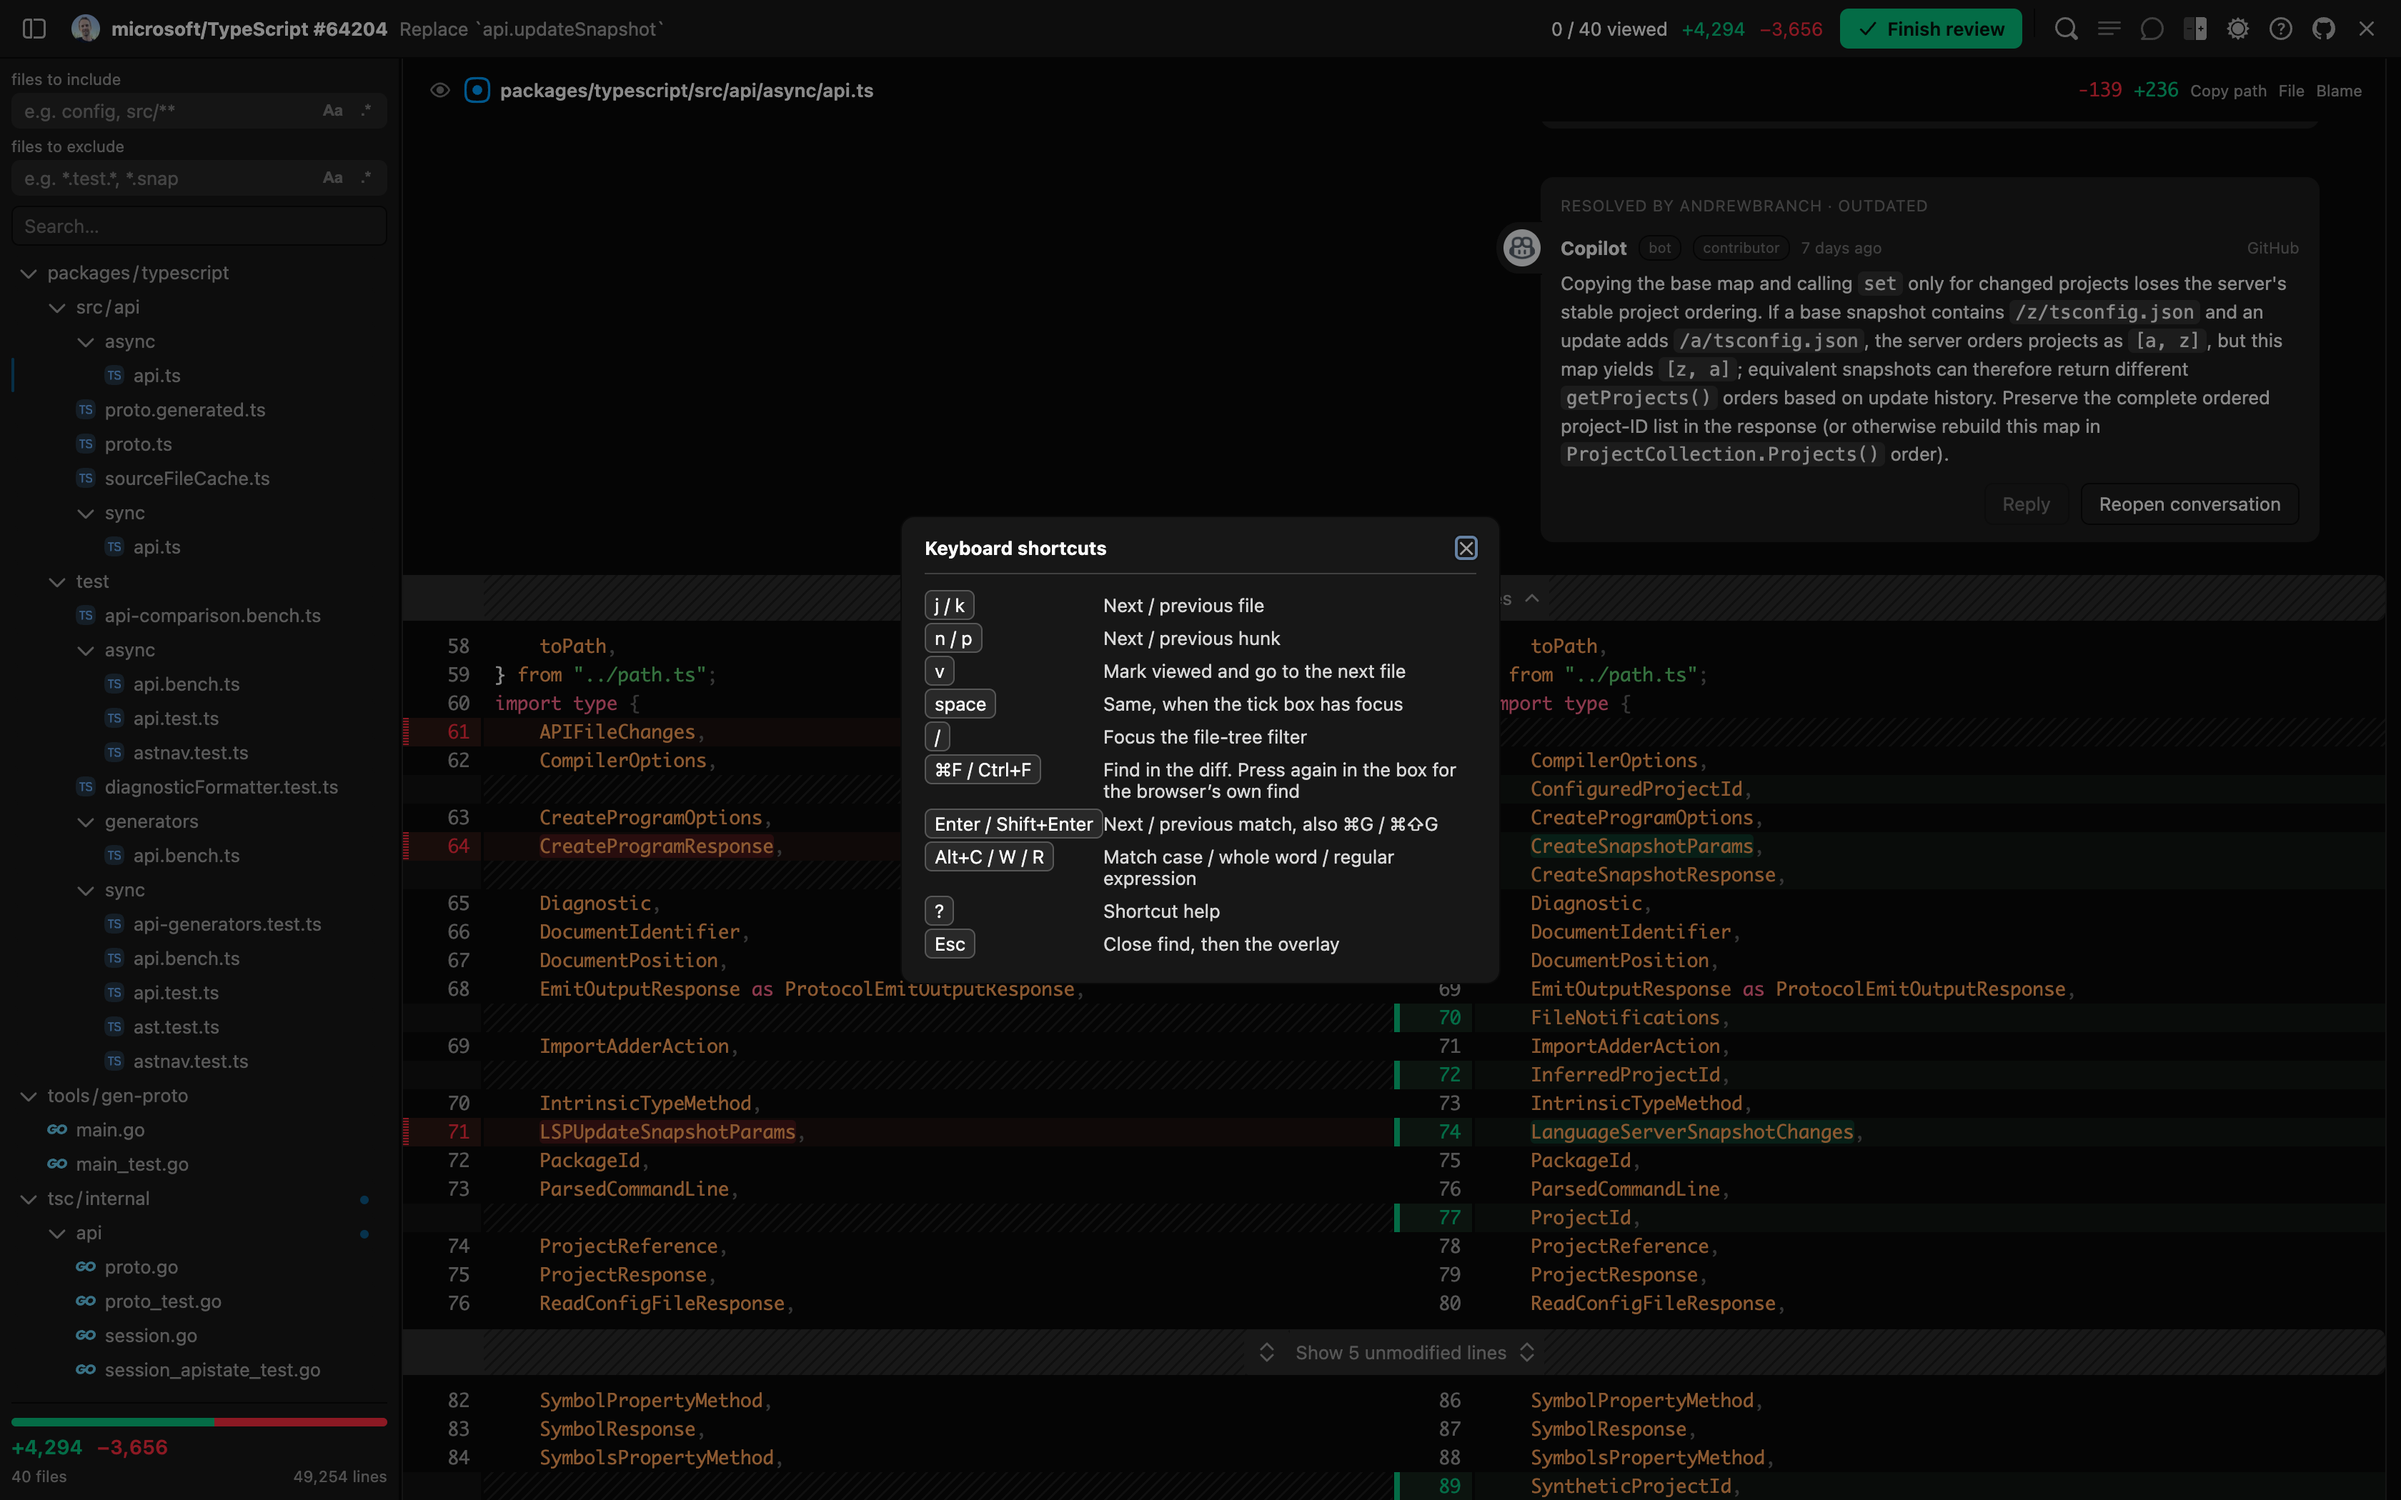
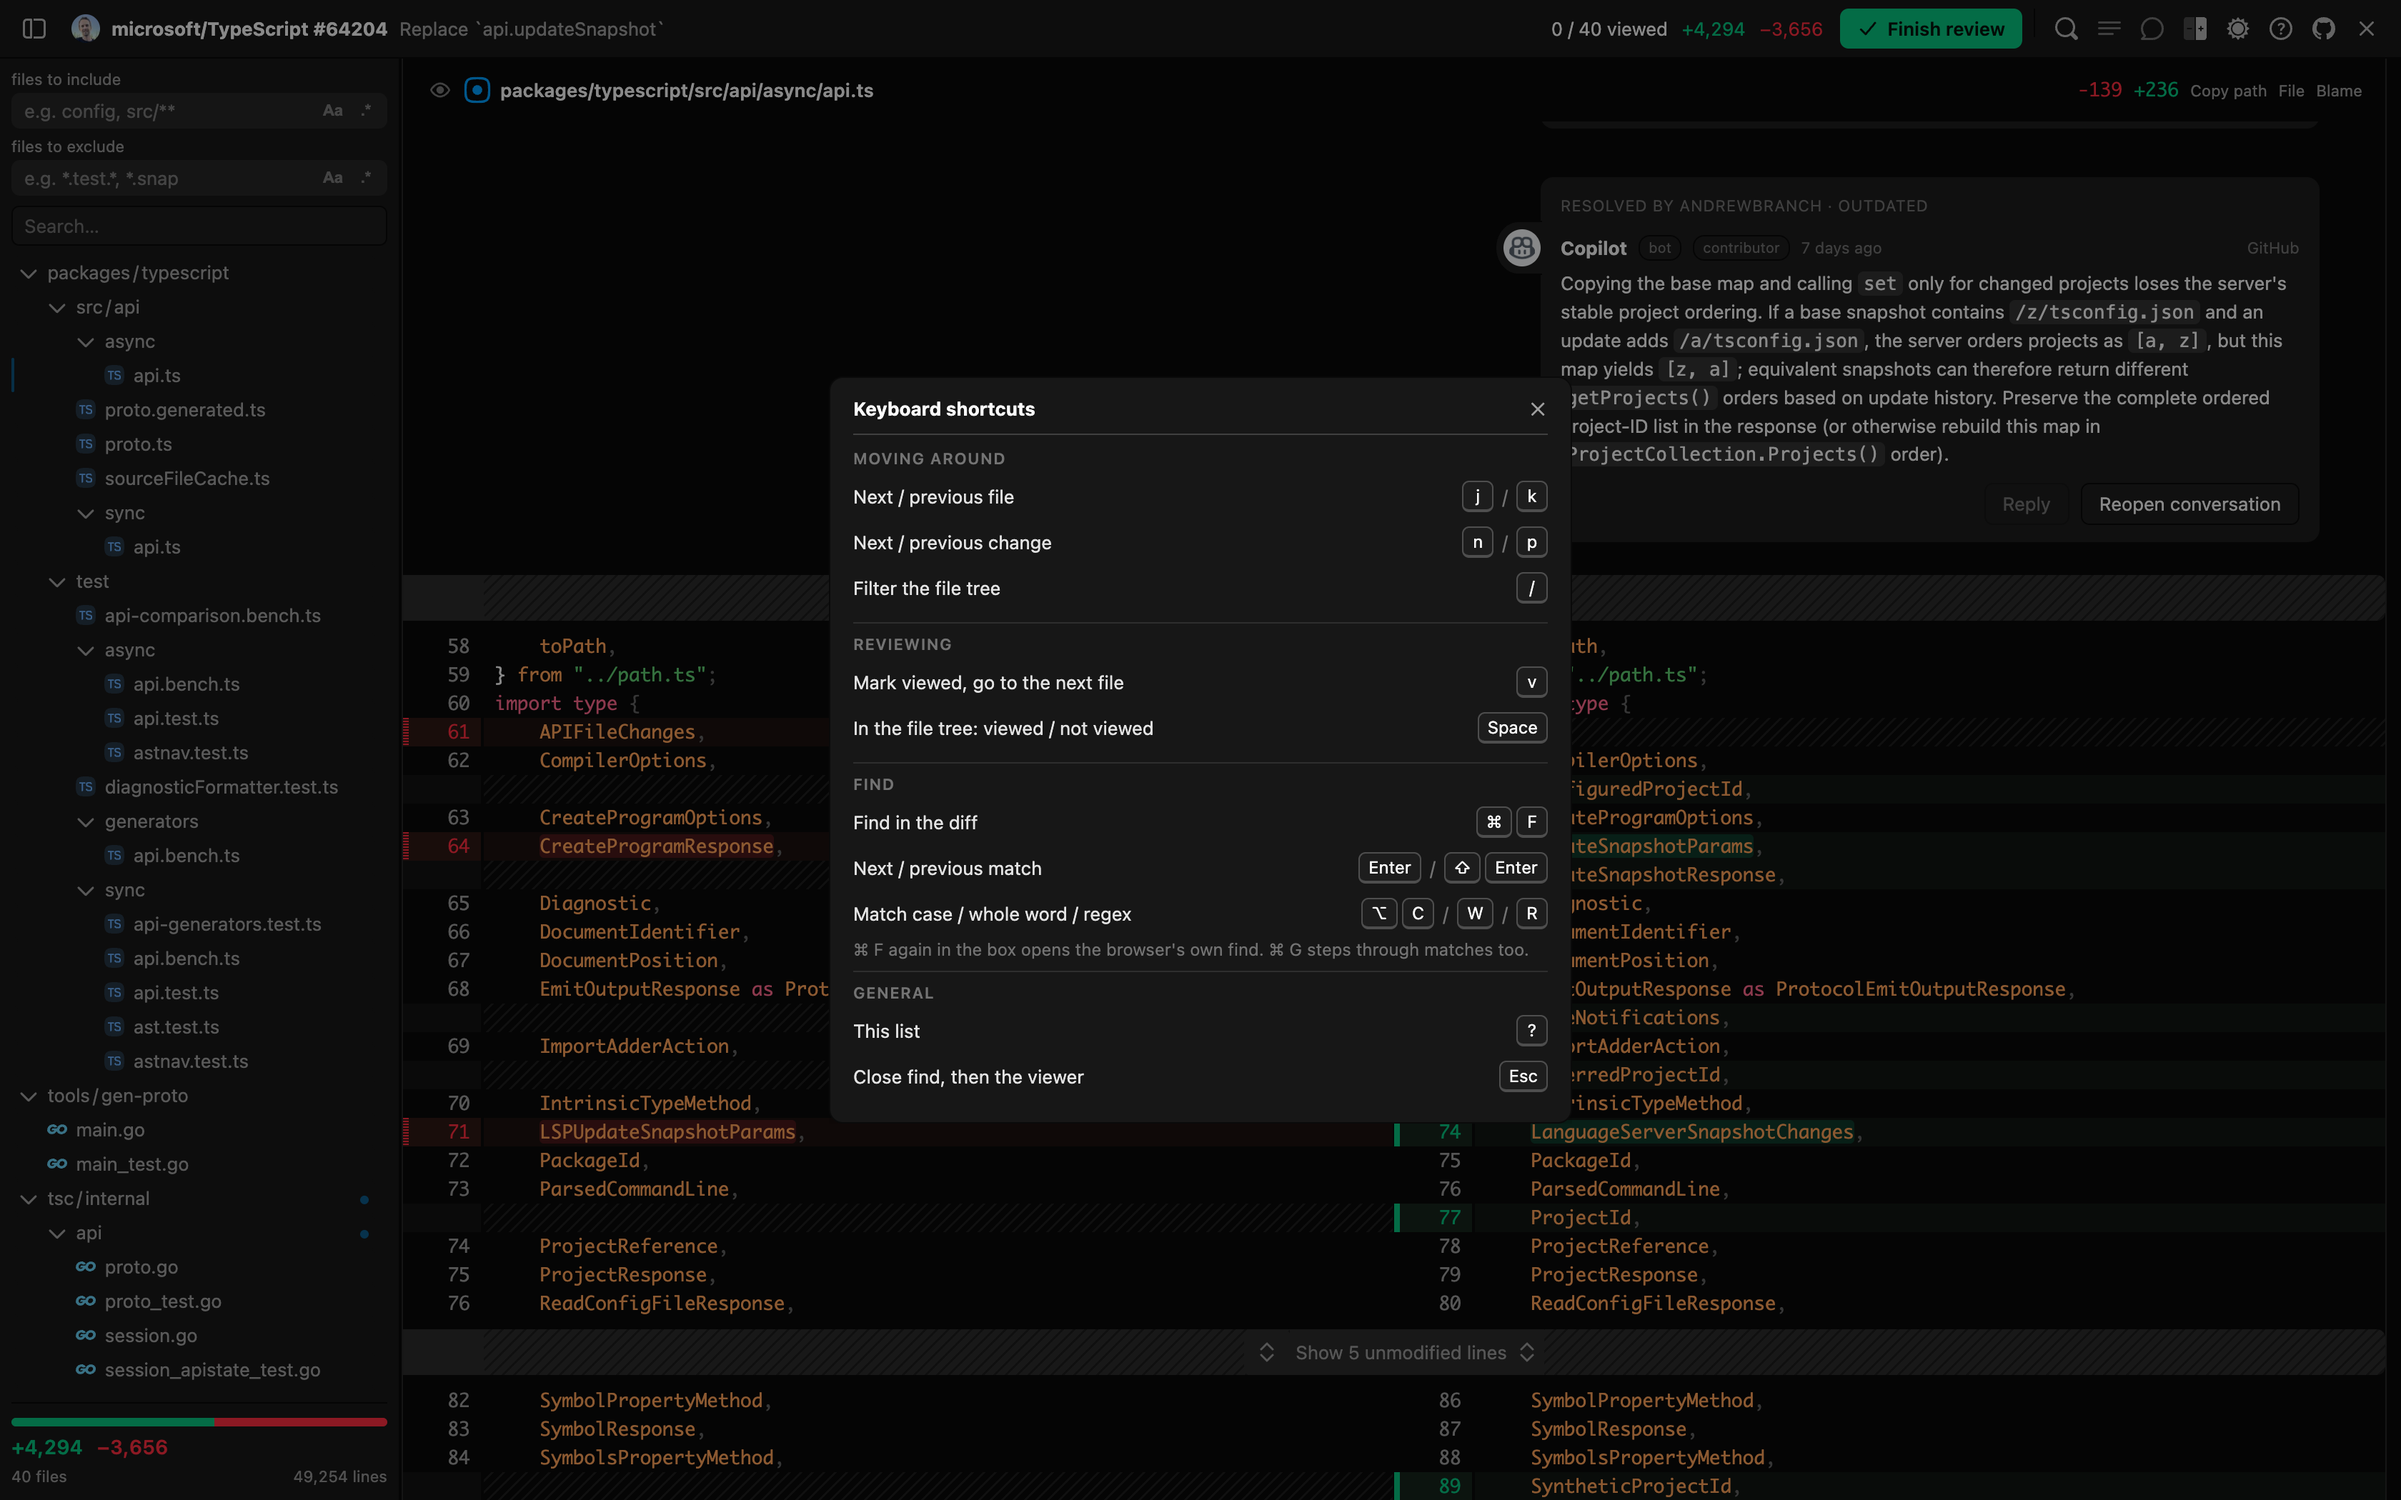
feat: a grouped shortcut list, and Space in the file tree toggles viewed
The list put whole key strings in one narrow column, so the long ones
ran into their text, and showed both platforms' keys at once. It is now
grouped under headings, each key its own keycap, right-aligned beside
what it does, with this platform's modifier keys only. The dialog takes
the keyboard itself, so the close button no longer opens ringed.

Space on a file in the tree marks it viewed, or not, and leaves the
keyboard on it, so a second Space takes the mark back off. Before, the
row's button took the key and jumped the diff to the file; Enter and a
click still do that.

Claude-Session: https://claude.ai/code/session_01VvMGDXWKBeEE4sbTguiP51

Changed region(s): [[0.3438, 0.2476, 0.6562, 0.7429], [0.375, 0.7119, 0.4375, 0.7429], [0.5938, 0.3405, 0.625, 0.3714]]

diff --git a/src/viewer/shell/ShortcutHelp.tsx b/src/viewer/shell/ShortcutHelp.tsx
@@ -1,16 +1,60 @@
 import { useCallback, useEffect, useRef, type JSX } from 'react';
 
-const SHORTCUTS: readonly { keys: string; action: string }[] = [
-  { keys: 'j / k', action: 'Next / previous file' },
-  { keys: 'n / p', action: 'Next / previous hunk' },
-  { keys: 'v', action: 'Mark viewed and go to the next file' },
-  { keys: 'space', action: 'Same, when the tick box has focus' },
-  { keys: '/', action: 'Focus the file-tree filter' },
-  { keys: '⌘F / Ctrl+F', action: 'Find in the diff. Press again in the box for the browser’s own find' },
-  { keys: 'Enter / Shift+Enter', action: 'Next / previous match, also ⌘G / ⌘⇧G' },
-  { keys: 'Alt+C / W / R', action: 'Match case / whole word / regular expression' },
-  { keys: '?', action: 'Shortcut help' },
-  { keys: 'Esc', action: 'Close find, then the overlay' },
+const IS_MAC = /mac/i.test(
+  (navigator as { userAgentData?: { platform?: string } }).userAgentData?.platform ?? navigator.platform,
+);
+
+/** The modifier keys as this platform prints them. The handlers accept both */
+const KEY = IS_MAC
+  ? { command: '⌘', option: '⌥', shift: '⇧' }
+  : { command: 'Ctrl', option: 'Alt', shift: 'Shift' };
+
+interface Shortcut {
+  /** What the keys do */
+  action: string;
+  /** Each entry is one way to do it, its keys pressed together. More than one are alternatives */
+  keys: readonly (readonly string[])[];
+}
+
+interface Group {
+  title: string;
+  shortcuts: readonly Shortcut[];
+  /** A line under the group, for what does not fit a row */
+  note?: string;
+}
+
+const GROUPS: readonly Group[] = [
+  {
+    title: 'Moving around',
+    shortcuts: [
+      { action: 'Next / previous file', keys: [['j'], ['k']] },
+      { action: 'Next / previous change', keys: [['n'], ['p']] },
+      { action: 'Filter the file tree', keys: [['/']] },
+    ],
+  },
+  {
+    title: 'Reviewing',
+    shortcuts: [
+      { action: 'Mark viewed, go to the next file', keys: [['v']] },
+      { action: 'In the file tree: viewed / not viewed', keys: [['Space']] },
+    ],
+  },
+  {
+    title: 'Find',
+    shortcuts: [
+      { action: 'Find in the diff', keys: [[KEY.command, 'F']] },
+      { action: 'Next / previous match', keys: [['Enter'], [KEY.shift, 'Enter']] },
+      { action: 'Match case / whole word / regex', keys: [[KEY.option, 'C'], ['W'], ['R']] },
+    ],
+    note: `${KEY.command} F again in the box opens the browser's own find. ${KEY.command} G steps through matches too.`,
+  },
+  {
+    title: 'General',
+    shortcuts: [
+      { action: 'This list', keys: [['?']] },
+      { action: 'Close find, then the viewer', keys: [['Esc']] },
+    ],
+  },
 ];
 
 /**
@@ -25,6 +69,9 @@ export function ShortcutHelp({ onClose }: { onClose: () => void }): JSX.Element 
     const dialog = dialogRef.current;
     if (dialog == null) return undefined;
     dialog.showModal();
+    // A modal puts the keyboard on its first control, which here would ring
+    // the close button every time the list opens
+    dialog.focus();
 
     const onBackdropClick = (event: MouseEvent) => {
       if (event.target === dialog) dialog.close();
@@ -47,7 +94,13 @@ export function ShortcutHelp({ onClose }: { onClose: () => void }): JSX.Element 
   const close = useCallback(() => dialogRef.current?.close(), []);
 
   return (
-    <dialog className="dh-help" ref={dialogRef} aria-label="Keyboard shortcuts" onClose={onClose}>
+    <dialog
+      className="dh-help"
+      ref={dialogRef}
+      aria-label="Keyboard shortcuts"
+      tabIndex={-1}
+      onClose={onClose}
+    >
       <div className="dh-help-panel">
         <div className="dh-help-header">
           <strong>Keyboard shortcuts</strong>
@@ -55,18 +108,29 @@ export function ShortcutHelp({ onClose }: { onClose: () => void }): JSX.Element 
             ✕
           </button>
         </div>
-        <table className="dh-help-table">
-          <tbody>
-            {SHORTCUTS.map((shortcut) => (
-              <tr key={shortcut.keys}>
-                <td className="dh-help-keys">
-                  <kbd>{shortcut.keys}</kbd>
-                </td>
-                <td className="dh-help-action">{shortcut.action}</td>
-              </tr>
-            ))}
-          </tbody>
-        </table>
+        {GROUPS.map((group) => (
+          <section key={group.title} className="dh-help-group">
+            <h3>{group.title}</h3>
+            <dl>
+              {group.shortcuts.map((shortcut) => (
+                <div key={shortcut.action} className="dh-help-row">
+                  <dt>{shortcut.action}</dt>
+                  <dd>
+                    {shortcut.keys.map((combination, at) => (
+                      <span key={combination.join('+')} className="dh-help-combo">
+                        {at > 0 && <span className="dh-help-or">/</span>}
+                        {combination.map((key) => (
+                          <kbd key={key}>{key}</kbd>
+                        ))}
+                      </span>
+                    ))}
+                  </dd>
+                </div>
+              ))}
+            </dl>
+            {group.note != null && <p className="dh-help-note">{group.note}</p>}
+          </section>
+        ))}
       </div>
     </dialog>
   );

diff --git a/src/entrypoints/viewer/style.css b/src/entrypoints/viewer/style.css
@@ -661,11 +661,15 @@ diffs-container:has(.dh-viewed:focus) {
 }
 
 .dh-help {
-  width: min(420px, 92vw);
+  width: min(520px, 92vw);
   padding: 0;
   color: inherit;
   background: transparent;
   border: 0;
+}
+
+.dh-help:focus {
+  outline: none;
 }
 
 .dh-help::backdrop {
@@ -705,31 +709,77 @@ diffs-container:has(.dh-viewed:focus) {
   opacity: 1;
 }
 
-.dh-help-table {
-  width: 100%;
-  border-collapse: collapse;
+/* Grouped as the shortcut sheets people know: what it does on the left, the
+   keys on the right, one keycap per key. */
+.dh-help-group + .dh-help-group {
+  padding-top: 8px;
+  margin-top: 8px;
+  border-top: 1px solid color-mix(in srgb, currentColor 10%, transparent);
 }
 
-.dh-help-table td {
-  padding: 4px 0;
-  vertical-align: baseline;
+.dh-help-group h3 {
+  margin: 0 0 4px;
+  font-size: 11px;
+  font-weight: 600;
+  color: var(--dh-muted);
+  text-transform: uppercase;
+  letter-spacing: 0.06em;
 }
 
-.dh-help-keys {
-  width: 90px;
-  white-space: nowrap;
+.dh-help-group dl {
+  margin: 0;
 }
 
-.dh-help-keys kbd {
-  padding: 2px 6px;
+.dh-help-row {
+  display: flex;
+  gap: 16px;
+  align-items: center;
+  justify-content: space-between;
+  padding-block: 5px;
+}
+
+.dh-help-row dt {
+  opacity: 0.9;
+}
+
+.dh-help-row dd {
+  display: flex;
+  flex: none;
+  gap: 6px;
+  align-items: center;
+  margin: 0;
+}
+
+.dh-help-combo {
+  display: inline-flex;
+  gap: 3px;
+  align-items: center;
+}
+
+.dh-help-or {
+  margin-inline-end: 3px;
+  color: var(--dh-muted);
+}
+
+.dh-help-combo kbd {
+  display: inline-flex;
+  align-items: center;
+  justify-content: center;
+  min-inline-size: 22px;
+  block-size: 22px;
+  padding-inline: 6px;
   font: inherit;
-  background: color-mix(in srgb, currentColor 8%, transparent);
+  font-size: 12px;
+  background: var(--dh-surface);
   border: 1px solid color-mix(in srgb, currentColor 22%, transparent);
+  border-bottom-width: 2px;
   border-radius: 5px;
 }
 
-.dh-help-action {
-  opacity: 0.85;
+.dh-help-note {
+  margin: 2px 0 0;
+  font-size: 12px;
+  color: var(--dh-muted);
 }
 
 .dh-file-links {

diff --git a/src/viewer/Overlay.tsx b/src/viewer/Overlay.tsx
@@ -314,12 +314,42 @@ function Viewer({ pr, openedAtSha }: { pr: PullRequestRef; openedAtSha?: string 
   }, [find]);
 
   /**
+   * Space on a file in the tree marks it viewed, or not, and leaves the
+   * keyboard on it, so a second Space takes the mark back off.
+   *
+   * The rows are buttons, so without this Space would press one, which opens
+   * the file in the diff. Enter and a click still do that, and Space on a
+   * folder still opens or closes it. Listened for on the window, ahead of
+   * everything else, so it does not depend on when the tree mounts.
+   */
+  useEffect(() => {
+    const onKeyDown = (event: KeyboardEvent) => {
+      if (event.key !== ' ' || event.metaKey || event.ctrlKey || event.altKey || event.shiftKey) return;
+      const path = event.composedPath();
+      if (!path.some((node) => node instanceof HTMLElement && node.classList.contains('dh-tree'))) return;
+      const row = path.find(
+        (node): node is HTMLElement => node instanceof HTMLElement && node.dataset.type === 'item',
+      );
+      if (row?.dataset.itemType !== 'file' || row.dataset.fileTreeStickyRow != null) return;
+      const file = row.dataset.itemPath;
+      const id = file == null ? undefined : pathToItemIdRef.current.get(file);
+      if (file == null || id == null) return;
+      event.preventDefault();
+      event.stopPropagation();
+      toggle(id, file);
+    };
+    addEventListener('keydown', onKeyDown, true);
+    return () => removeEventListener('keydown', onKeyDown, true);
+  }, [toggle]);
+
+  /**
    * Ticking a file off moves to the next one still to read and puts the
    * keyboard on its eye, so the whole review is space, read, space. Files
    * already read are skipped: stopping on one would mean ticking it off again
    * or stepping past it by hand. Unticking a file leaves you on it, because
    * you went back to it on purpose.
    */
+
   const markViewed = useCallback(
     (id: string) => {
       // Read through a ref: the header this button lives in is rendered by the
